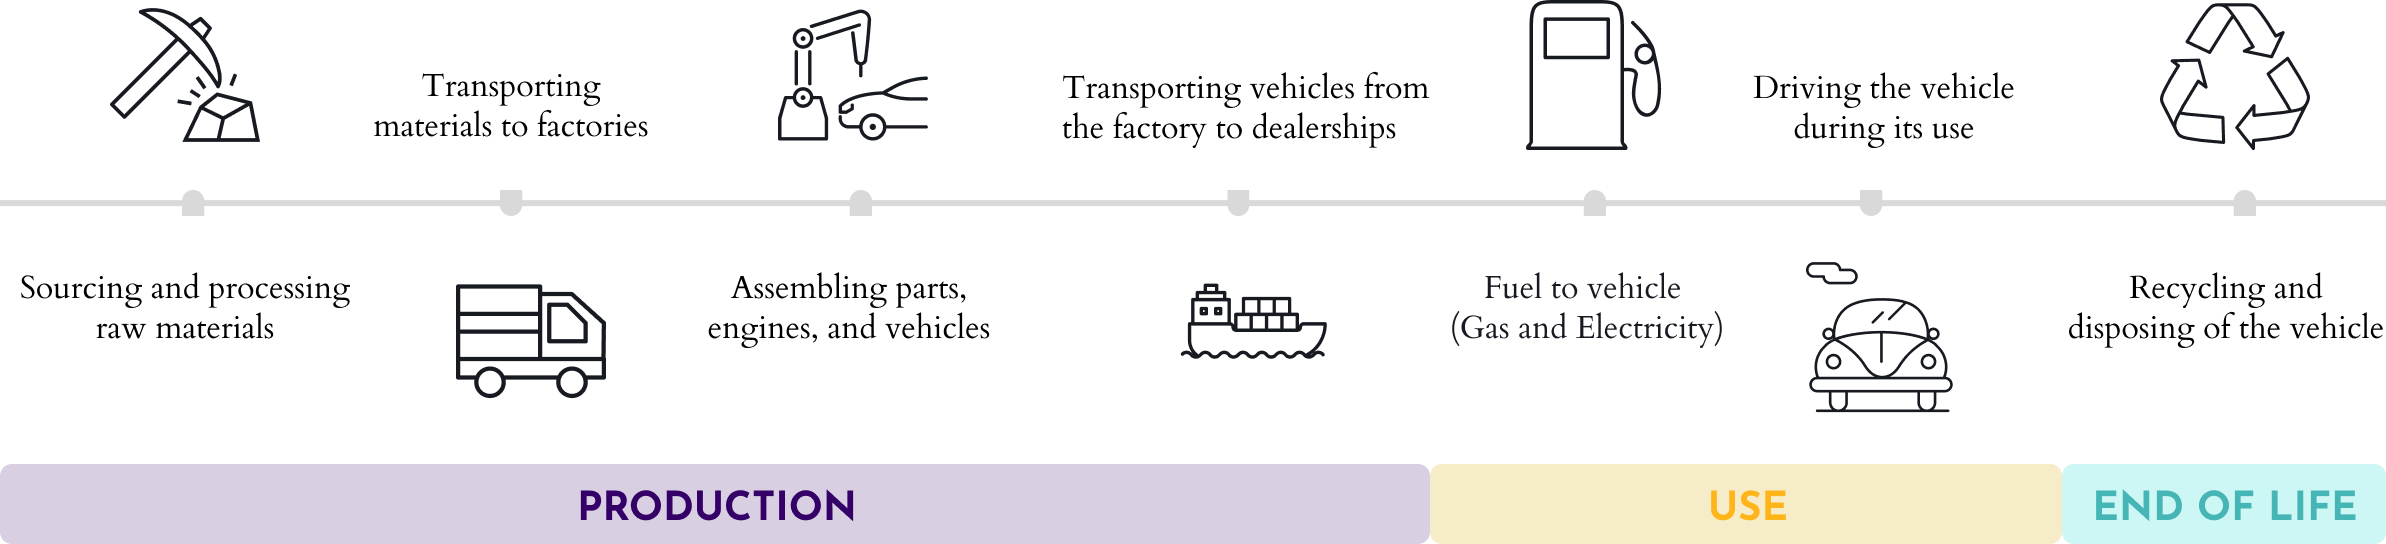
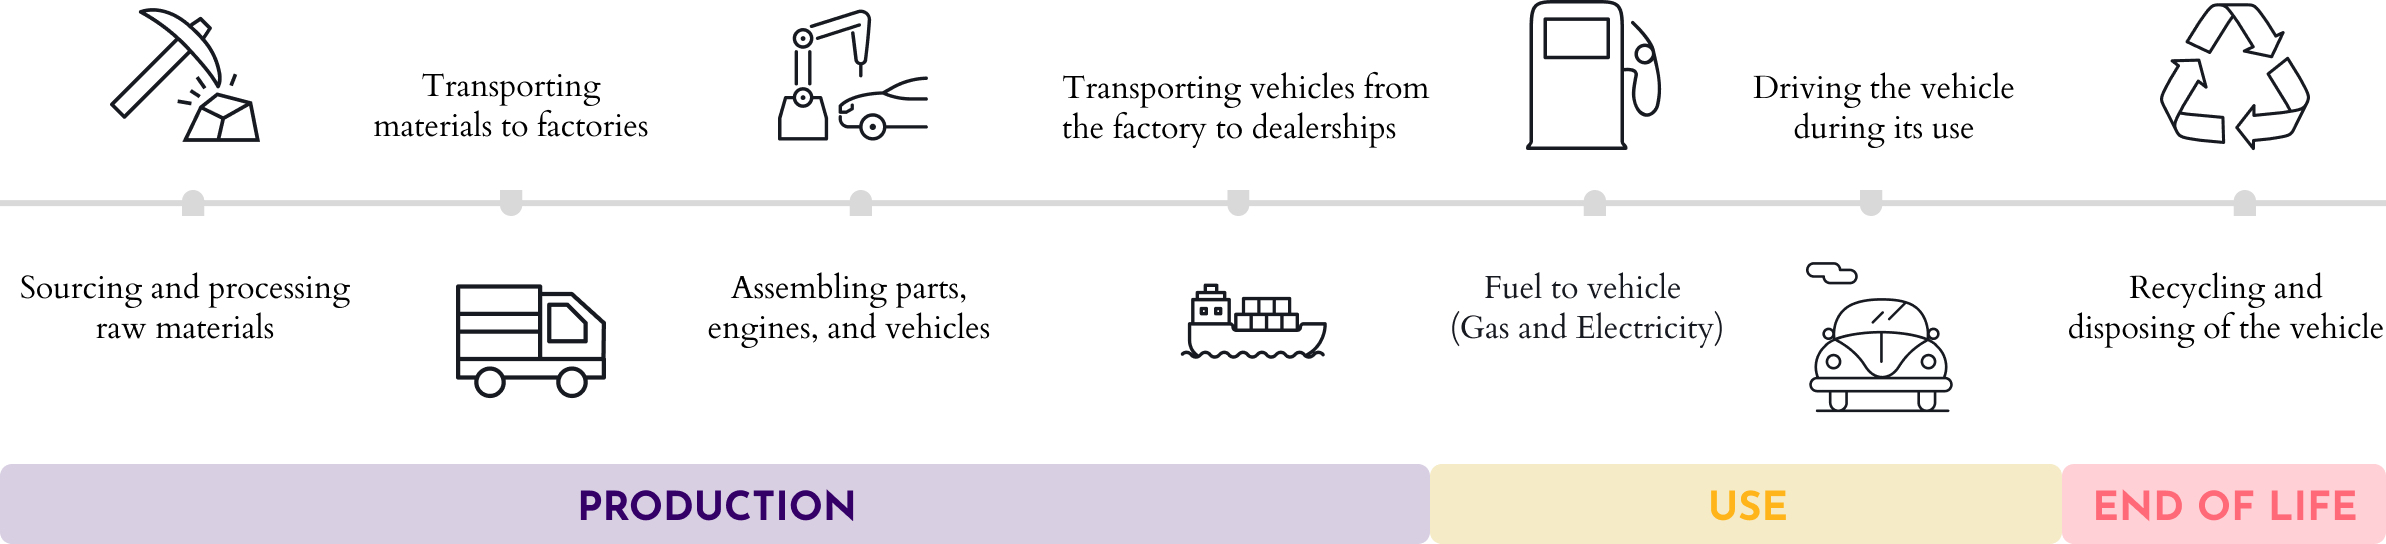
color change for end-of-life: flat visualizations

Changed region(s): [[0.8374, 0.8438, 1.0, 1.0]]

diff --git a/css/slideshow.css b/css/slideshow.css
@@ -51,7 +51,7 @@
   border-radius: 100px; */
 }
 .customCarousel > input:nth-of-type(4):checked ~ .carousel__thumbnails li:nth-of-type(4) {
-  background: #46B5B5;
+  background: #FF6978;
   color: white;
   /* box-shadow: 0px 0px 0px 3px #CCF7F4;
   border-radius: 100px; */
@@ -147,10 +147,10 @@
 }
 
 .customBlue{
-  border-color: #46B5B5; border-style: solid; border-width: 2px;
+  border-color: #FF6978; border-style: solid; border-width: 2px;
 }
 .customBlue:hover{
-  background: #CDF7F4;
+  background: #FFD0D5;
 }
 
 /*# sourceMappingURL=scroll.css.map */

diff --git a/vehicleForm/vehicle_form.html b/vehicleForm/vehicle_form.html
@@ -5,7 +5,7 @@
         <!-- <meta charset="utf-8"> -->
         <meta name="viewport" content="width=device-width, initial-scale=1">
         <meta charset = "UTF-8">
-        <title>Emissions Explorer Tool</title>
+        <title>Emissions Explorer - MIMS Capstone Project</title>
 
         <!-- Bootstrap CSS -->
         <link href="https://cdn.jsdelivr.net/npm/bootstrap@5.3.0-alpha1/dist/css/bootstrap.min.css" rel="stylesheet" integrity="sha384-GLhlTQ8iRABdZLl6O3oVMWSktQOp6b7In1Zl3/Jr59b6EGGoI1aFkw7cmDA6j6gD" crossorigin="anonymous">

diff --git a/templates/equity.html b/templates/equity.html
@@ -3,7 +3,7 @@
   <head>
     <meta charset="utf-8">
     <meta name="viewport" content="width=device-width, initial-scale=1">
-    <title>MIMS Capstone Project: Equity</title>
+    <title>ZEV Accessibility - MIMS Capstone Project</title>
     <!-- Bootstrap CSS -->
     <link href="https://cdn.jsdelivr.net/npm/bootstrap@5.3.0-alpha1/dist/css/bootstrap.min.css" rel="stylesheet" integrity="sha384-GLhlTQ8iRABdZLl6O3oVMWSktQOp6b7In1Zl3/Jr59b6EGGoI1aFkw7cmDA6j6gD" crossorigin="anonymous">
       <!-- CSS -->

diff --git a/templates/about.html b/templates/about.html
@@ -3,7 +3,7 @@
   <head>
     <meta charset="utf-8">
     <meta name="viewport" content="width=device-width, initial-scale=1">
-    <title>MIMS Capstone Project: Equity</title>
+    <title>About - MIMS Capstone Project</title>
     <!-- Bootstrap CSS -->
     <link href="https://cdn.jsdelivr.net/npm/bootstrap@5.3.0-alpha1/dist/css/bootstrap.min.css" rel="stylesheet" integrity="sha384-GLhlTQ8iRABdZLl6O3oVMWSktQOp6b7In1Zl3/Jr59b6EGGoI1aFkw7cmDA6j6gD" crossorigin="anonymous">
       <!-- CSS -->

diff --git a/templates/index.html b/templates/index.html
@@ -3,7 +3,7 @@
   <head>
     <meta charset="utf-8">
     <meta name="viewport" content="width=device-width, initial-scale=1">
-    <title>MIMS Capstone Project: Index</title>
+    <title>Home - MIMS Capstone Project</title>
     <!-- Bootstrap CSS -->
     <link href="https://cdn.jsdelivr.net/npm/bootstrap@5.3.0-alpha1/dist/css/bootstrap.min.css" rel="stylesheet" integrity="sha384-GLhlTQ8iRABdZLl6O3oVMWSktQOp6b7In1Zl3/Jr59b6EGGoI1aFkw7cmDA6j6gD" crossorigin="anonymous">
   
